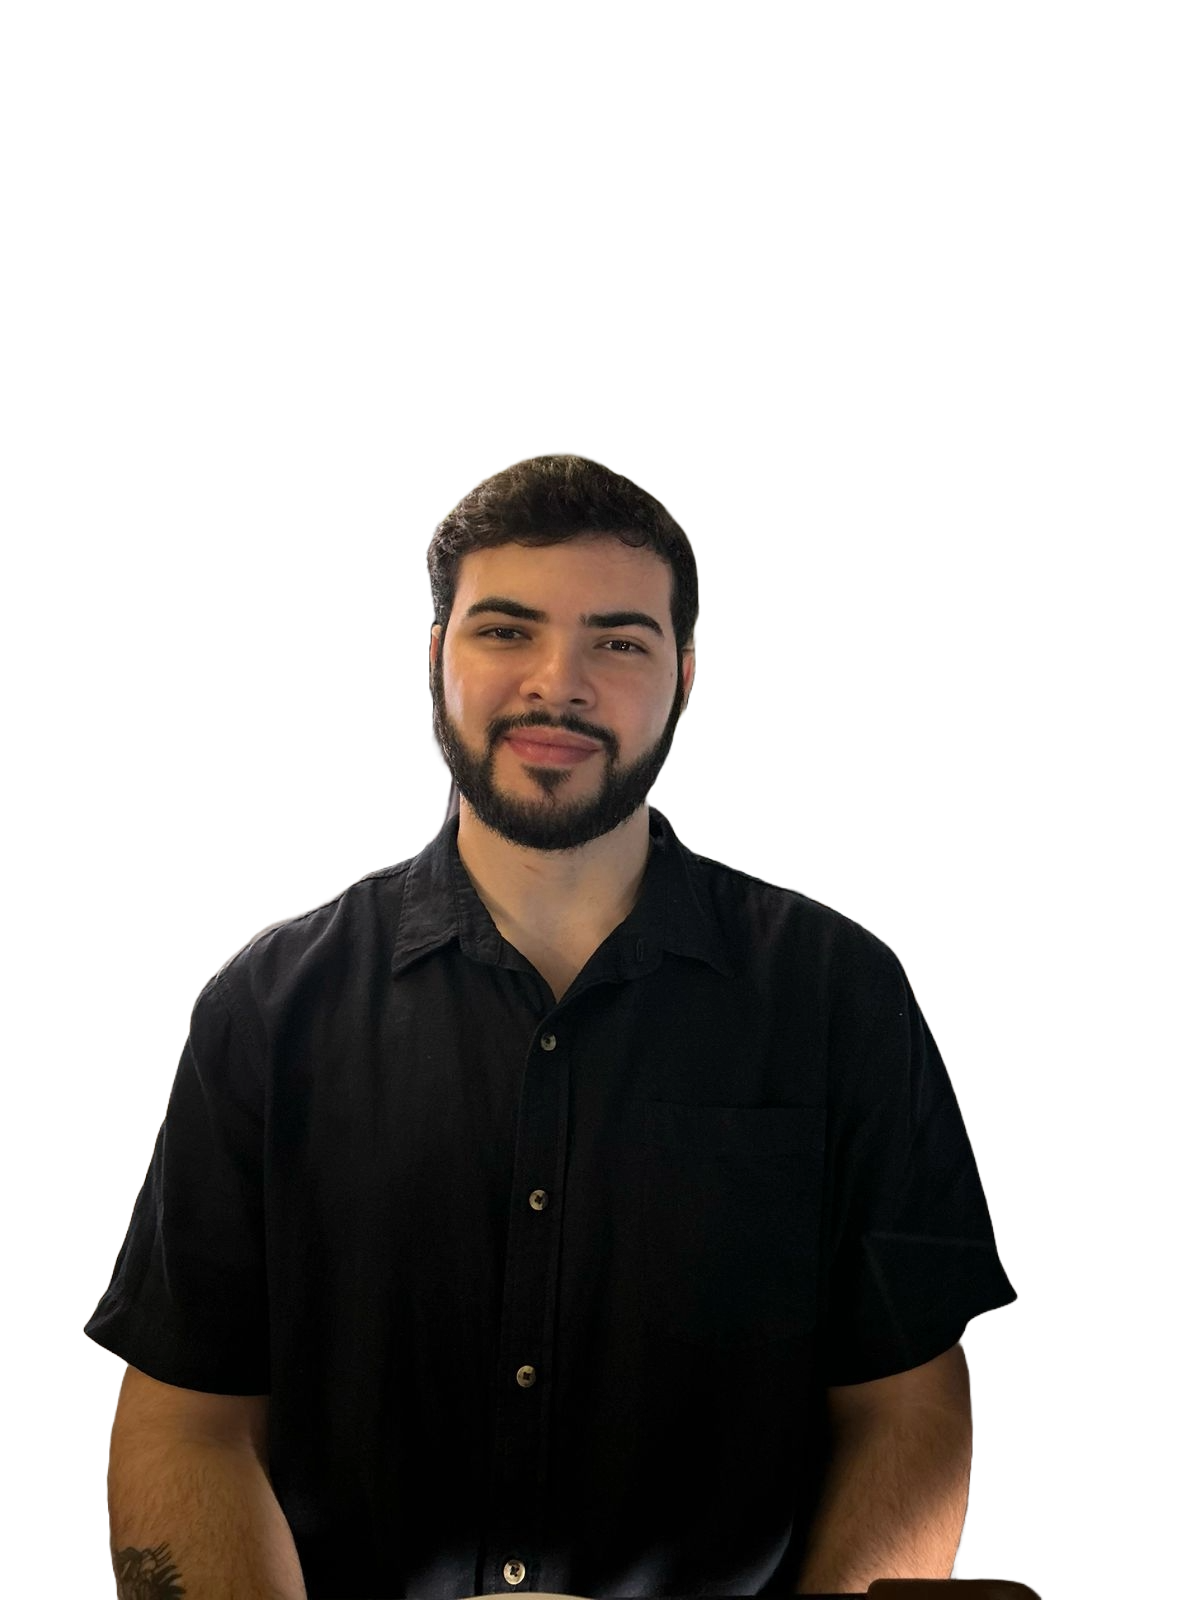
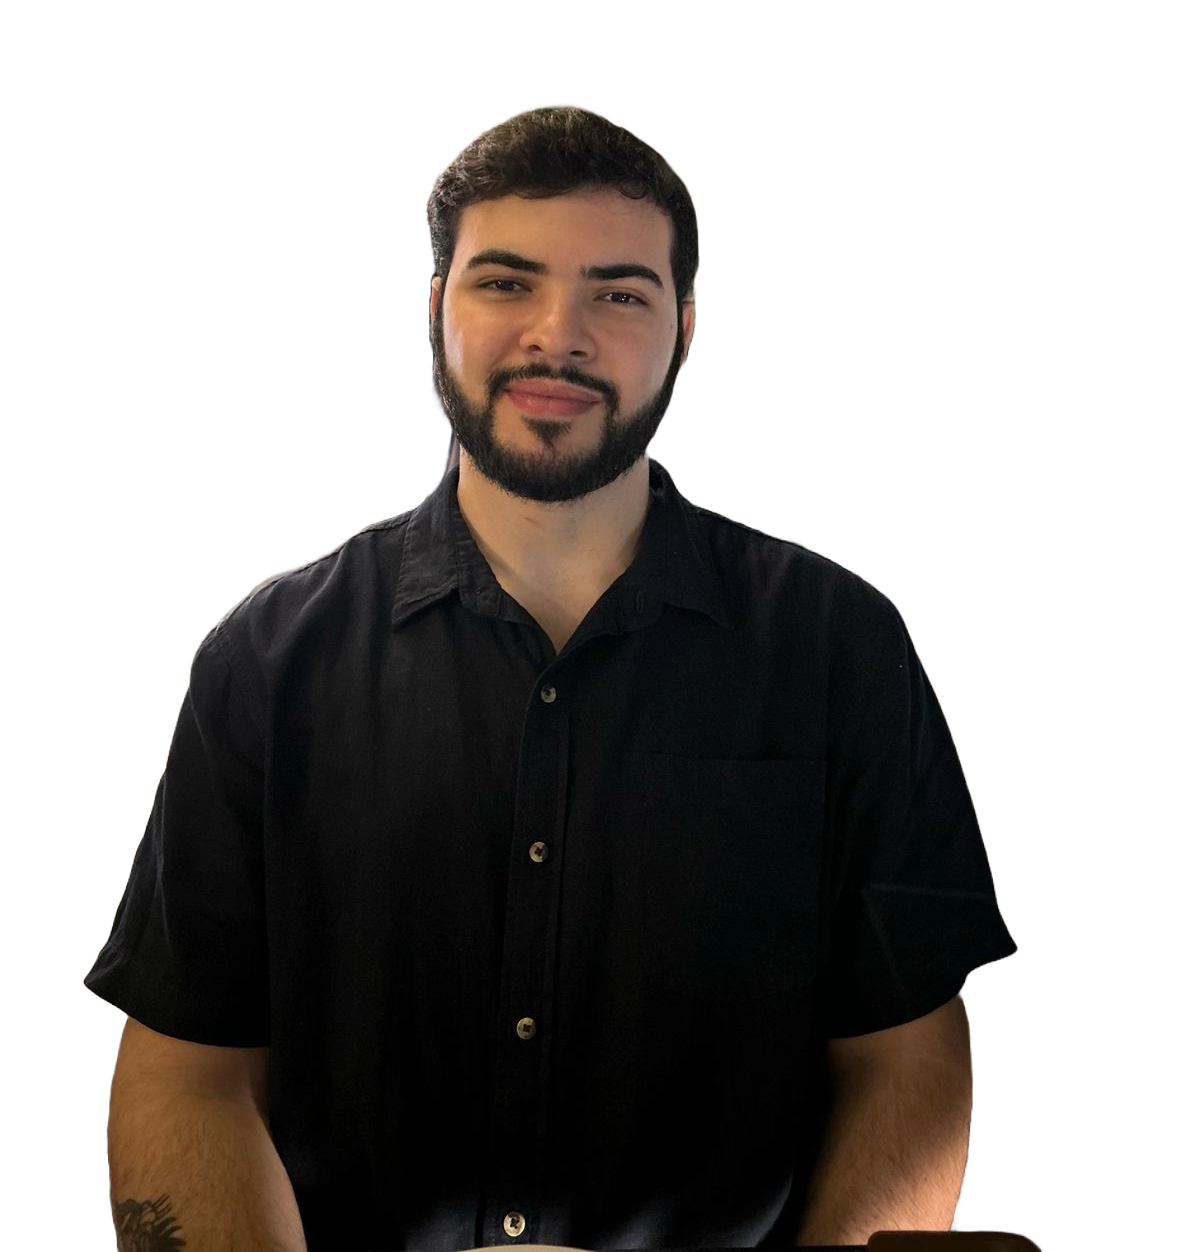
Ajustando tela grande e Fotos

diff --git a/public/style.css b/public/style.css
@@ -1444,7 +1444,7 @@ footer {
   }
 }
 
-@media (min-width: 1460px) {
+@media (min-width: 2000px) {
   .ItensNavBar {
     gap: 80px;
   }
@@ -1577,7 +1577,7 @@ footer {
   }
 
   .SliderQuemSomosInterno {
-    height: 900px;
+    height: 90vh;
   }
 
   .quem-somos-slider {
@@ -1585,13 +1585,17 @@ footer {
   }
 
   .texto-qs {
-    height: 680px;
-    max-width: 1200px;
+    height: 68vh;
+    max-width: 40vw;
   }
 
   .foto-qs {
-    width: 520px;
-    height: 700px;
+    width: 26vw;
+    height: 72vh;
+  }
+
+  .foto-qs img {
+    object-fit: contain;
   }
 
   .prev-qs,
